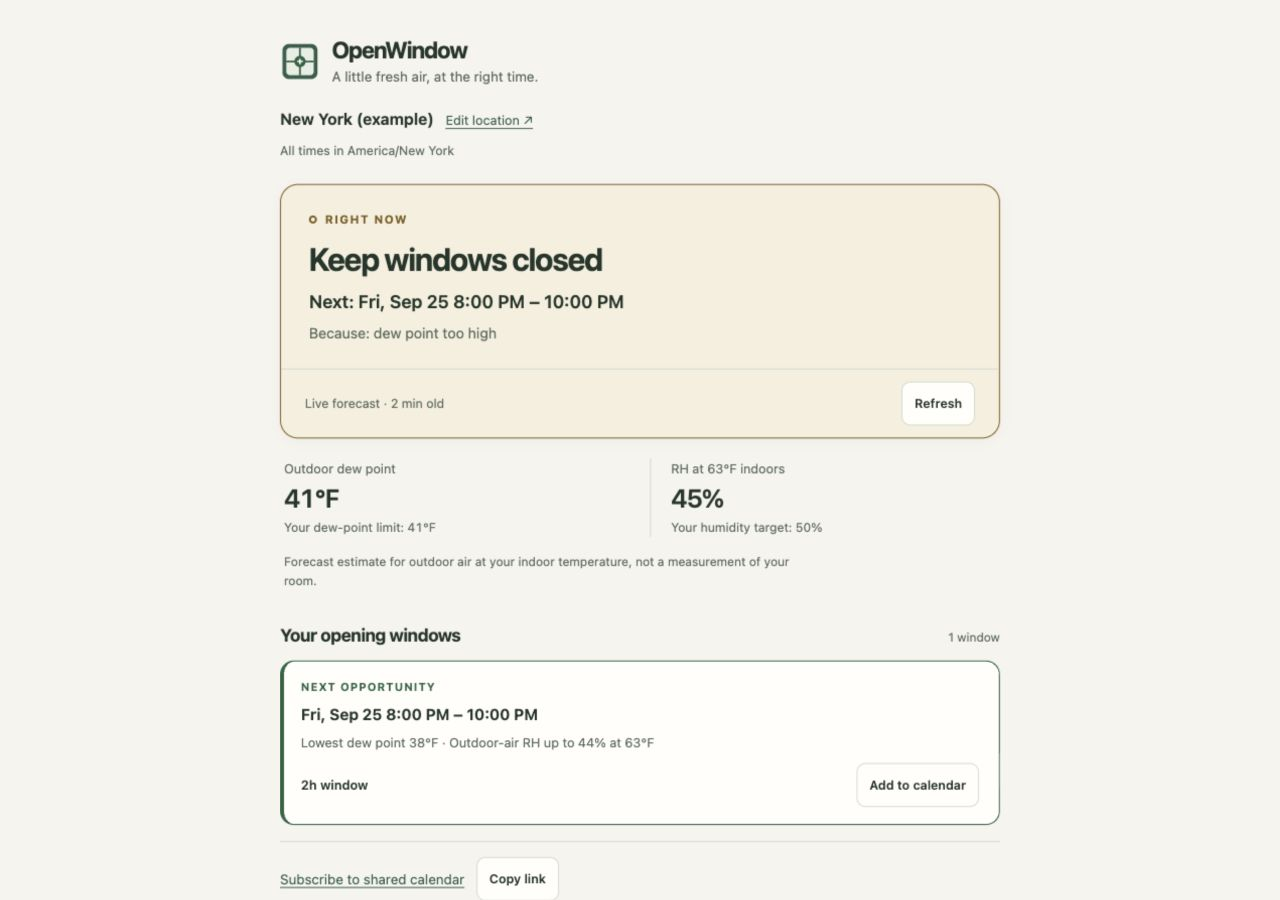
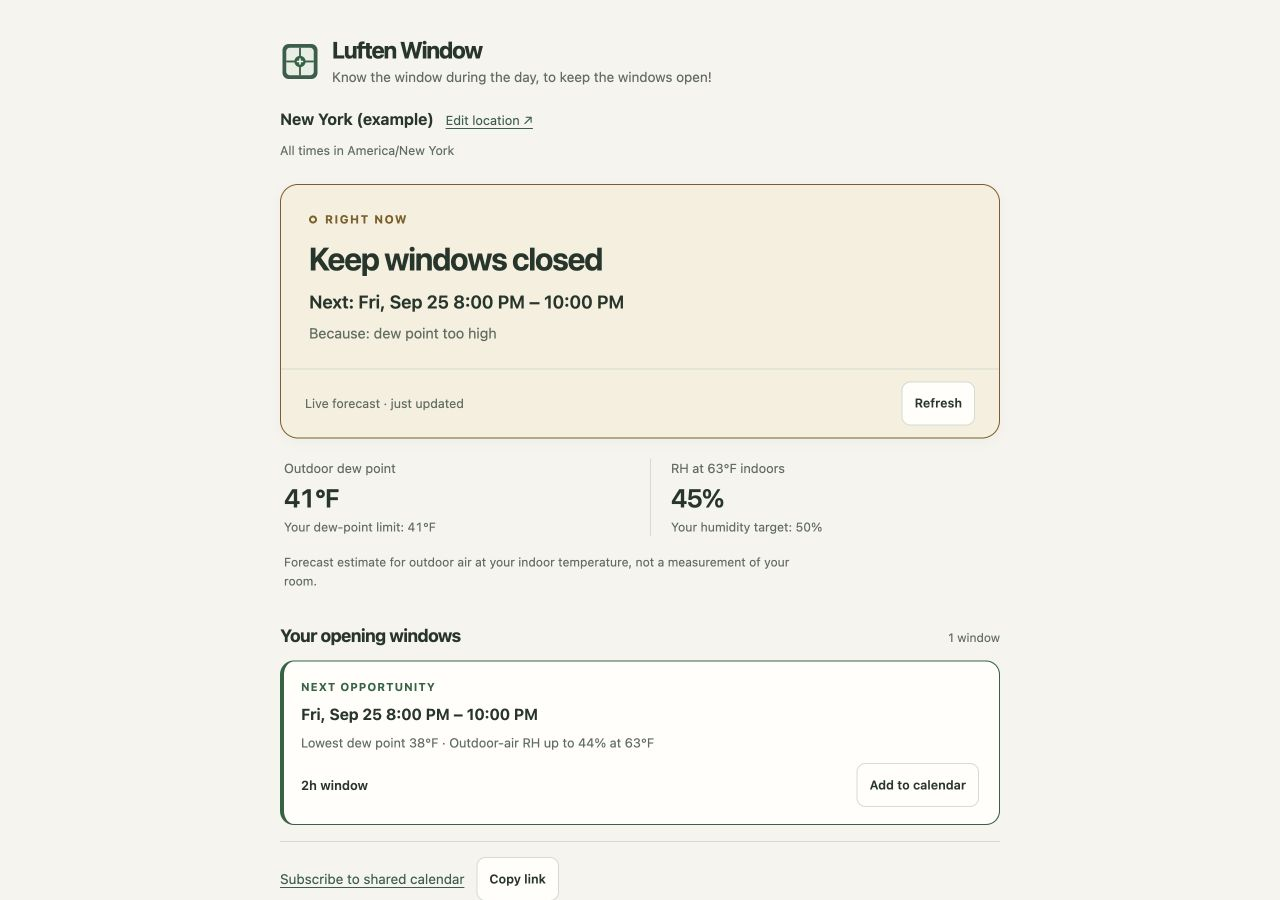
Unify Luften Window branding and clarify preview and calendar setup

diff --git a/public/index.html b/public/index.html
@@ -3,9 +3,9 @@
   <head>
     <meta charset="utf-8">
     <meta name="viewport" content="width=device-width, initial-scale=1">
-    <meta name="description" content="Find the best times to open your windows, with a humidity-aware weather forecast.">
+    <meta name="description" content="Know the window during the day, to keep the windows open!">
     <meta name="theme-color" content="#f5f4ee">
-    <title>OpenWindow — humidity-aware window planner</title>
+    <title>Luften Window — humidity-aware window planner</title>
     <link rel="manifest" href="./manifest.webmanifest">
     <link rel="icon" href="./icon.svg" type="image/svg+xml">
     <link rel="stylesheet" href="./styles.css">
@@ -15,7 +15,7 @@
     <a class="skip-link" href="#forecast">Skip to forecast</a>
     <main class="container">
       <header class="app-header">
-        <div class="brand"><img src="./icon.svg" width="40" height="40" alt=""><div><h1>OpenWindow</h1><p class="subtitle">A little fresh air, at the right time.</p></div></div>
+        <div class="brand"><img src="./icon.svg" width="40" height="40" alt=""><div><h1>Luften Window</h1><p class="subtitle">Know the window during the day, to keep the windows open!</p></div></div>
         <button type="button" id="location-btn" class="location-button" aria-controls="settings-panel">
           <span id="location-name">Your location</span><span class="location-edit">Edit location ↗</span>
         </button>

diff --git a/public/app.js b/public/app.js
@@ -1,4 +1,4 @@
-// OpenWindow UI entry point. ES module, no dependencies.
+// Luften Window UI entry point. ES module, no dependencies.
 
 import { mergeSettings, validate, toQuery, fromQuery } from "./core/settings.js";
 import { fetchForecast } from "./core/forecast.js";
@@ -254,7 +254,7 @@ function downloadIcs(w) {
   const url = URL.createObjectURL(blob);
   const a = document.createElement("a");
   a.href = url;
-  a.download = "openwindow.ics";
+  a.download = "luften-window.ics";
   document.body.appendChild(a);
   a.click();
   a.remove();

diff --git a/public/core/calendar.js b/public/core/calendar.js
@@ -92,9 +92,9 @@ export function buildCalendar({ settings, windows, timezone, stampEpoch }) {
   const lines = [
     "BEGIN:VCALENDAR",
     "VERSION:2.0",
-    "PRODID:-//OpenWindow//Window Planner//EN",
+    "PRODID:-//Luften Window//Window Planner//EN",
     "CALSCALE:GREGORIAN",
-    "X-WR-CALNAME:Open Windows",
+    "X-WR-CALNAME:Luften Window",
     "X-PUBLISHED-TTL:PT1H",
   ];
 

diff --git a/README.md b/README.md
@@ -1,21 +1,33 @@
-# Luften-Window
+# Luften Window
 
-I wanted to know when I could leave my windows open throughout the day without constantly checking humidity levels. So I built Luften-Window: an easy way to see which times of day are suitable for keeping the windows open in your region.
+Know the window during the day, to keep the windows open!
 
-Choose your location and indoor humidity target. Luften-Window uses the hourly weather forecast to show **when to open your windows, how long to leave them open, and when to close them**.
+I wanted to know when I could leave my windows open throughout the day without constantly checking humidity levels. So I built Luften Window: an easy way to see which times of day are suitable for keeping the windows open in your region.
+
+Choose your location and indoor humidity target. Luften Window uses the hourly weather forecast to show **when to open your windows, how long to leave them open, and when to close them**.
+
+**Preview Luften Window without running it locally: [open the GitHub Pages app](https://lofihippo.github.io/Luften-Window/).**
 
 | Desktop | Mobile |
 | --- | --- |
 | ![Desktop view showing the current recommendation and next opening window for New York](docs/screenshots/desktop.jpg) | ![Mobile view showing the current recommendation and next opening window for New York](docs/screenshots/mobile.jpg) |
 
-**[Open Luften-Window](https://lofihippo.github.io/Luften-Window/)**
-
 - See today's opening times at a glance, with up to three days on the forecast chart.
 - Adjust for your indoor temperature, humidity target, rain, wind and outdoor comfort.
-- Add a window to your calendar, or set up optional background notifications.
+- Save an individual opening window, subscribe to a shared calendar, or set up optional background notifications.
 - Use the mobile-friendly light or dark interface, keyboard controls and hourly table.
 
 The advice is forecast-based. The humidity estimate describes outdoor air at your chosen indoor temperature; it does not measure humidity inside your home.
+
+## Add opening times to your calendar
+
+**Subscribe once for ongoing updates**, or use **Add to calendar** on an individual window for a one-time `.ics` event using your current location and settings.
+
+For Google Calendar, open it on a computer and choose **Other calendars → + → From URL**, paste the [shared calendar feed](https://lofihippo.github.io/Luften-Window/data/windows.ics), then choose **Add calendar**. Apple Calendar and Outlook also support calendar subscriptions; [see the setup guide](docs/setup.md#calendar-subscription) for their steps.
+
+The shared feed is scheduled to refresh **hourly** as the humidity and weather forecast changes. Your calendar app controls when those changes appear, so a fresh update every morning is not guaranteed. Open the app for the latest advice.
+
+**The demo feed is for New York (example).** Changing your browser settings does not change that shared subscription. For an automatically updating calendar for your region, [deploy your own copy](docs/setup.md#deploying-to-github-pages) with your location and humidity preferences.
 
 ## Try it locally
 

diff --git a/docs/setup.md b/docs/setup.md
@@ -108,6 +108,12 @@ For Pages, enter these values as repository Actions secrets; for a local Node ch
 
 ### Calendar subscription
 
+**A subscription stays connected to the feed; an imported event is a one-time copy.** Choose **Add to calendar** on a window to save that event with your current browser settings. To keep receiving changing opening times, add the shared calendar's URL once in your calendar app.
+
+The [public demo feed](https://lofihippo.github.io/Luften-Window/data/windows.ics) follows **New York (example)**. Personal browser settings do not create a personalized subscription. For your own region, deploy a copy, set the location and thresholds in `public/config.json`, and subscribe to that deployment's feed. Keep its committed location at city-level precision if you want to avoid publishing a home address.
+
+The included Pages workflow is scheduled to check the forecast and refresh the feed **hourly**, including overnight and in the morning. Events reflect the humidity target and other weather limits. Actions schedules can be delayed, and Google, Apple and Outlook choose their own refresh intervals, so the app cannot guarantee that updated events will appear by a particular morning time. Optional daily digest notifications are a separate feature; they do not control calendar refresh.
+
 Once the checker has run, `public/data/windows.ics` is generated. The app offers its subscription link only while the shared checker forecast and a structurally valid feed are available. `public/data/check-status.json` records the last successful check separately, so an unchanged forecast remains fresh without rewriting JSON or ICS. This feed follows the checker's location and settings; changing personal settings in the browser does not change it. Per-window calendar downloads reflect your current browser settings.
 
 Use **Copy link** in the shared calendar panel, or the deployed feed URL: `https://<user>.github.io/<repo>/data/windows.ics` for project Pages, or `https://<host>/data/windows.ics` for a root deployment. Keep the repository subpath. For ongoing updates, add a URL subscription; importing an individual `.ics` download makes a one-time copy.

diff --git a/docs/accessibility-audit.md b/docs/accessibility-audit.md
@@ -61,7 +61,7 @@ audit_page desktop-dark-expanded 'http://127.0.0.1:8082/Luften-Window/?audit=exp
 
 These are the flags verified with this Chrome version. The default preference on the audit Mac was dark, so an unqualified headless launch did not verify light mode. Inspect screenshots after reruns; do not infer theme from a report filename. Chromium defines its light `preferredColorScheme` value as 1 ([enum](https://raw.githubusercontent.com/chromium/chromium/main/third_party/blink/public/mojom/css/preferred_color_scheme.mojom)). For Lighthouse CLI usage, see the [official guide](https://github.com/GoogleChrome/lighthouse/blob/main/readme.md).
 
-Inspect every audit with a numeric score below 1, not just the category score. Stop the fixture with Ctrl-C when finished. The original full JSON/HTML reports and screenshots were saved as temporary local artifacts. The metadata below preserves the audited source and report identities. The default location and notification opt-in were subsequently changed for the public example; the interface was unchanged.
+Inspect every audit with a numeric score below 1, not just the category score. Stop the fixture with Ctrl-C when finished. The original full JSON/HTML reports and screenshots were saved as temporary local artifacts. The metadata below preserves the audited source and report identities. The default location and notification opt-in were subsequently changed for the public example; the interface was unchanged at that point. The visible app name and description were later updated to Luften Window; the source hashes below identify the earlier audited version.
 
 ## Limits
 
